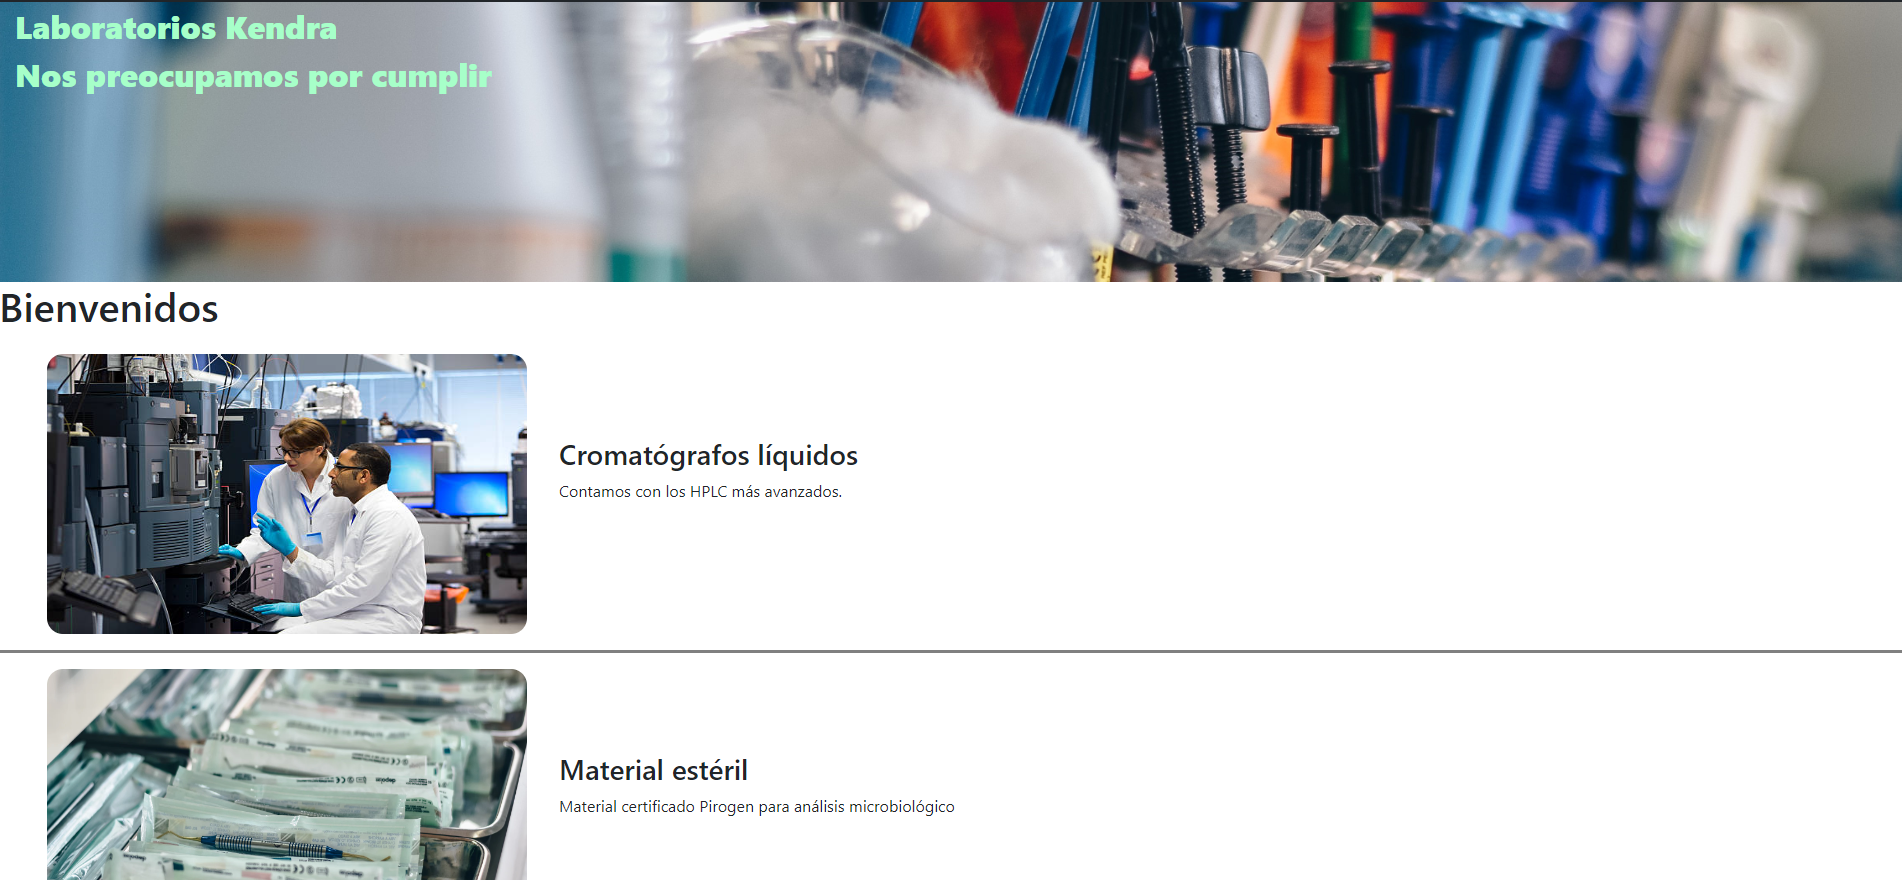
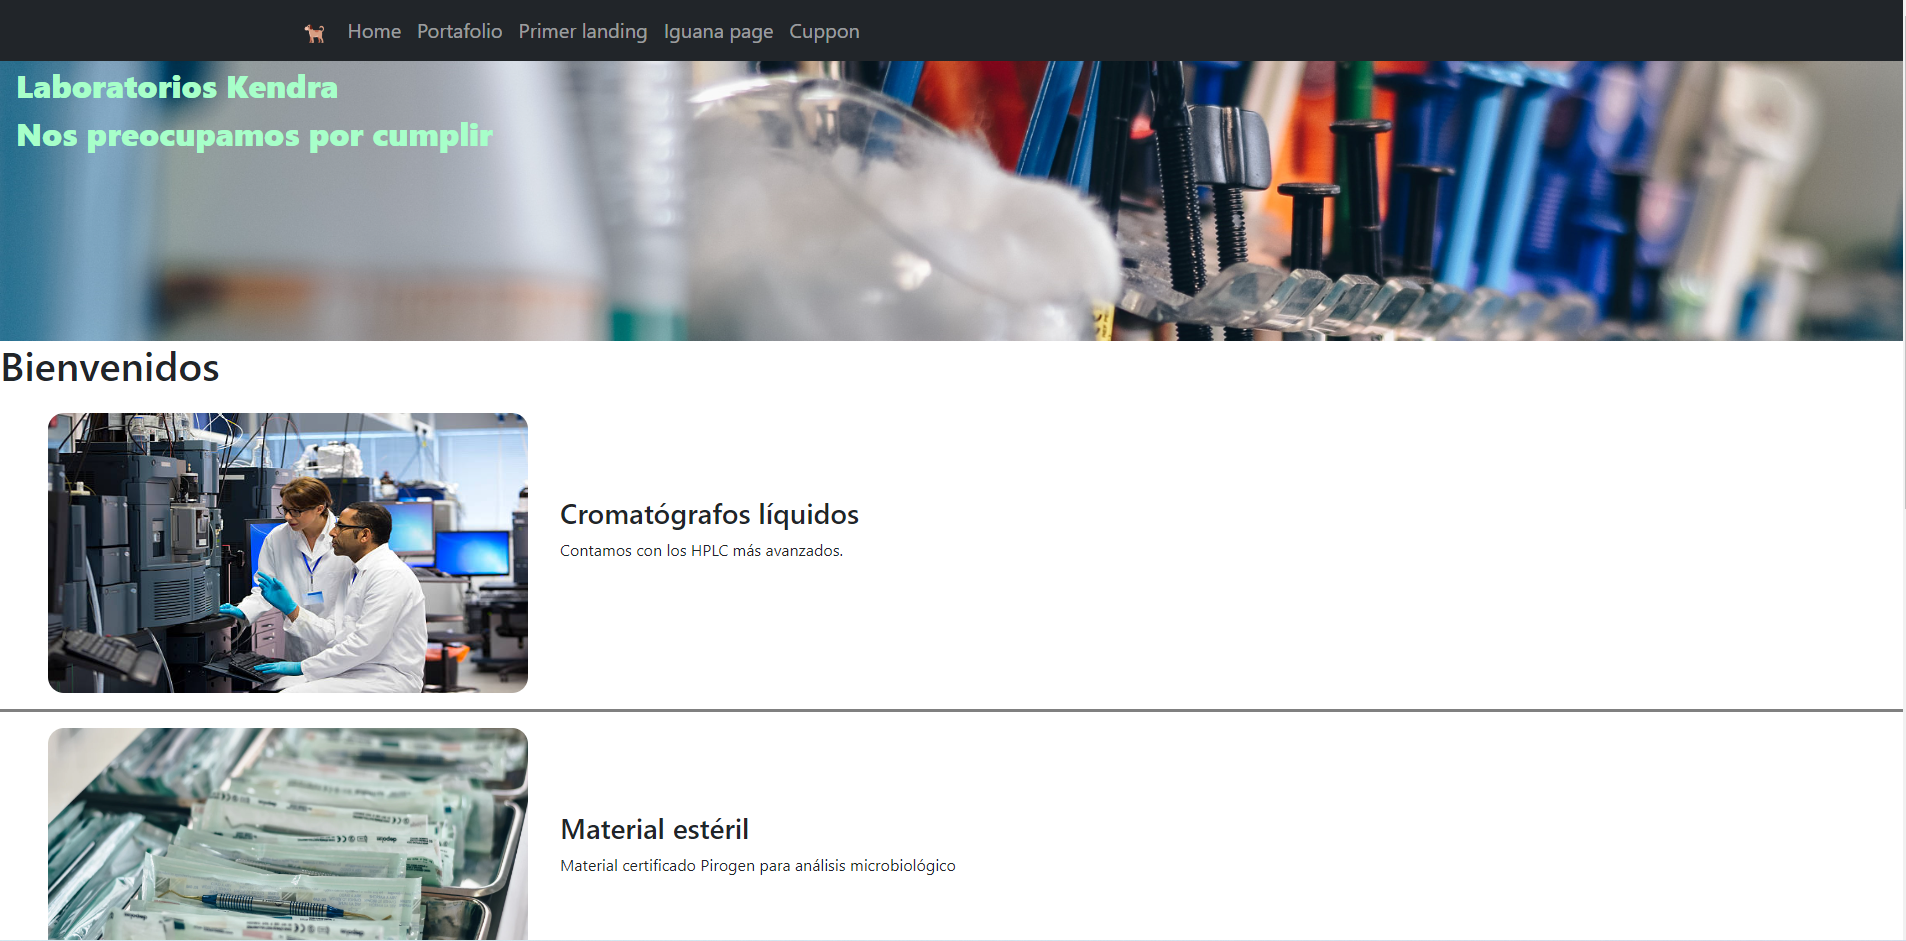
se agrega información para página final

diff --git a/portafolio.html b/portafolio.html
@@ -11,7 +11,7 @@
   <!-- Link Google fonts -->
   <link rel="preconnect" href="https://fonts.googleapis.com">
   <link rel="preconnect" href="https://fonts.gstatic.com" crossorigin>
-  <link href="https://fonts.googleapis.com/css2?family=Raleway:wght@400;700&display=swap" rel="stylesheet">
+  <link href="https://fonts.googleapis.com/css2?family=Roboto:wght@300;500&display=swap" rel="stylesheet">
 
   <!-- Bootstrap CSS v5.0.2 -->
   <link href="https://cdn.jsdelivr.net/npm/bootstrap@5.1.3/dist/css/bootstrap.min.css" rel="stylesheet"
@@ -22,10 +22,10 @@
     crossorigin="anonymous" referrerpolicy="no-referrer" />
 
   <link rel="shortcut icon" href="assets/img/favicon.ico" type="image/x-icon">
-  <link rel="stylesheet" href="assets/css/style.css">
+  <link rel="stylesheet" href="assets/css/portafolio.css">
 </head>
 
-<body>
+<body class="bg-black text-light">
   <nav class="navbar navbar-expand-lg navbar-dark bg-dark fixed-top">
     <div class="container">
       <a class="navbar-brand" href="index.html">
@@ -57,6 +57,49 @@
       </div>
     </div>
   </nav>
+
+  <main class="main text-roboto">
+      <h1 fs-5 text-weight-medium>Portafolio</h1>
+    <div class="content-card pt-3 ps-4 pe-4">
+        <div class="row">
+            <div class="col-xs-12 col-md-6">
+                <div class="card m-3 shadow rounded">
+                    <img src="assets/img/portafolio/CV.png" class="card-img-top" alt="desafío curriculum vitae">
+                    <div class="card-body bg-info">
+                      <h5 class="card-title text-weight-medium c-title">Curriculum vitae</h5>
+                      <a href="#" class="btn btn-success">Ver CV</a>
+                  </div>
+                </div>
+            </div>
+            <div class="col-xs-12 col-md-6">
+                <div class="card m-3 shadow rounded">
+                    <img src="assets/img/portafolio/primer_landing.png" class="card-img-top" alt="desafío primer landing">
+                    <div class="card-body bg-info">
+                      <h5 class="card-title text-weight-medium c-title">Primer landing page</h5>
+                      <a href="#" class="btn btn-success">Ver primer landing</a>
+                  </div>
+                </div>
+            </div>
+            <div class="col-xs-12 col-md-6">
+                <div class="card m-3 shadow rounded">
+                    <img src="assets/img/portafolio/iguana_page.png" class="card-img-top" alt="desafío iguana page">
+                    <div class="card-body bg-info">
+                      <h5 class="card-title text-weight-medium c-title">Iguana page</h5>
+                      <a href="#" class="btn btn-success">Ver Iguana page</a>
+                  </div>
+                </div>
+            </div>
+            <div class="col-xs-12 col-md-6">
+                <div class="card m-3 shadow rounded">
+                    <img src="assets/img/portafolio/cuppon.png" class="card-img-top" alt="desafío cuppon">
+                    <div class="card-body bg-info">
+                        <h5 class="card-title text-weight-medium c-title">Cuppon</h5>
+                        <a href="#" class="btn btn-success">ver Cuppon</a>
+                    </div>
+                </div>
+            </div>
+    </div>
+</main>
 
   <footer class="bg-dark text-center text-light p-4">
     <p class="mb-0">Kendra 2022. Todos los derechos reservados.</p>

diff --git a/assets/css/portafolio.css b/assets/css/portafolio.css
@@ -3,5 +3,22 @@
 }
 
 body {
-    padding-top: 54px;
+    padding-top: 70px;
+}
+
+.text-roboto {
+    font-family: 'Roboto', sans-serif;
+}
+
+.text-weight-light {
+    font-weight: 300;
+}
+
+.text-weight-medium {
+    font-weight: 500;
+}
+
+.c-title {
+    color: #212529;
+    font-size: 20px;
 }
